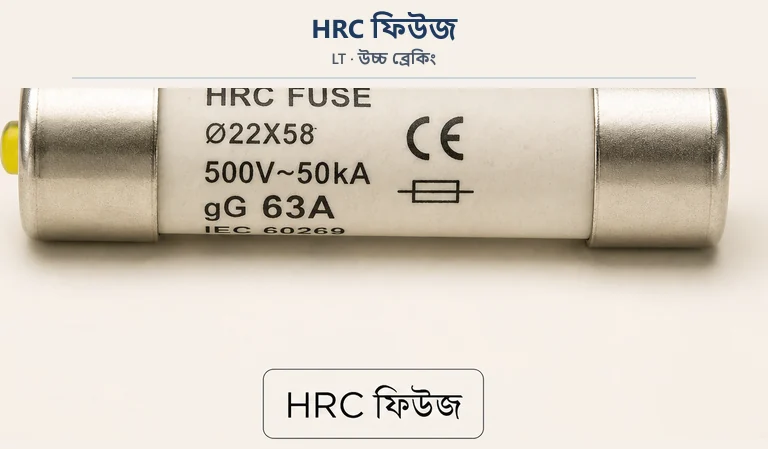
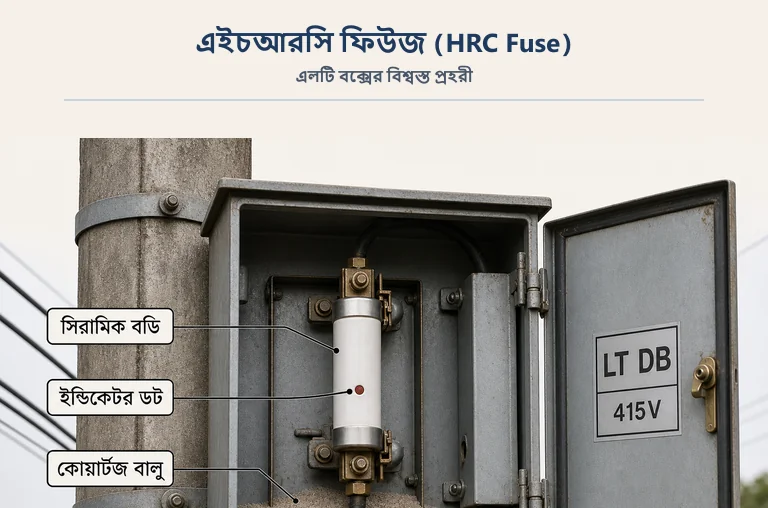
Ship v1.3.147 PWA — lesson 6.3 fuse field update with refreshed posters.
Horn Gap fuse, SWG wire sizing, and trimmed training posters; APK channel unchanged at 1.3.146/142.

diff --git a/src/config.js b/src/config.js
@@ -2,11 +2,11 @@
 export const APP_NAME = "SmartLineman.in";
 export const API_URL = import.meta.env.VITE_SUPABASE_URL;
 /** Bump on each release — web clients compare this to prompt refresh when stale. */
-export const CURRENT_APP_VERSION = "1.3.146";
+export const CURRENT_APP_VERSION = "1.3.147";
 /** Shown in the update modal when CURRENT_APP_VERSION changes. */
 export const CURRENT_APP_RELEASE_NOTES = {
-  en: "Lesson reading: poster images open only when you tap — no more auto pop-up while scrolling.",
-  bn: "লেসন পড়ার সময় ছবি এখন শুধু ট্যাপ করলেই বড় হবে — স্ক্রল করতে গিয়ে আর নিজে থেকে খুলবে না।",
+  en: "Lesson 6.3 fuse field update — Horn Gap fuse, SWG wire sizing, and refreshed training posters.",
+  bn: "লেসন ৬.৩ ফিউজ আপডেট — হর্ন গ্যাপ ফিউজ, SWG তার নির্বাচন ও নতুন পোস্টার।",
 };
 export const WEBSITE_URL = "https://smartlineman.in";
 /** Prefer www for Android update fetches — apex 308-redirects and breaks some native downloads. */
